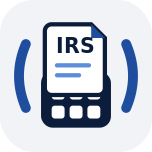
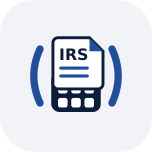
Ajusta o logotipo à arte de referência (Public/)
Refina a geometria do símbolo (dobra do documento maior e mais fiel,
proporções da calculadora e dos arcos ajustadas) com base no logotipo
fornecido, mantendo a mesma paleta azul já em uso. Ícones PWA
regenerados a partir da nova arte.

diff --git a/app/ui/components/symbol.js b/app/ui/components/symbol.js
@@ -3,31 +3,31 @@
 // ladeado por dois arcos que sugerem "antecipação" (o resultado já
 // calculado antes do círculo fiscal fechar). É o único elemento gráfico
 // de assinatura da marca: usar com moderação, sem duplicar como padrão
-// decorativo. Cores fixas da paleta (ver BRAND.md) — não variam consoante
-// o fundo, ao contrário da versão anterior do símbolo.
+// decorativo. Geometria e cores seguem o logotipo de referência (ver
+// BRAND.md) — cores fixas, não variam consoante o fundo.
 
 export function simboloSVG({ size = 32 } = {}) {
   return `
     <svg viewBox="0 0 100 100" width="${size}" height="${size}" role="img" aria-label="Antecipa">
-      <path d="M20,26 Q9,50 20,74" fill="none" stroke="#1F4E9E" stroke-width="6" stroke-linecap="round"/>
-      <path d="M80,26 Q91,50 80,74" fill="none" stroke="#1F4E9E" stroke-width="6" stroke-linecap="round"/>
+      <path d="M18,26 Q7,50 18,74" fill="none" stroke="#1F4E9E" stroke-width="6.5" stroke-linecap="round"/>
+      <path d="M82,26 Q93,50 82,74" fill="none" stroke="#1F4E9E" stroke-width="6.5" stroke-linecap="round"/>
 
-      <rect x="29" y="46" width="42" height="34" rx="7" fill="#0B1D3A"/>
+      <rect x="28" y="47" width="44" height="35" rx="7" fill="#0B1D3A"/>
       <g fill="#FFFFFF">
-        <rect x="35" y="56" width="8" height="8" rx="2"/>
-        <rect x="46" y="56" width="8" height="8" rx="2"/>
-        <rect x="57" y="56" width="8" height="8" rx="2"/>
-        <rect x="35" y="68" width="8" height="8" rx="2"/>
-        <rect x="46" y="68" width="8" height="8" rx="2"/>
-        <rect x="57" y="68" width="8" height="8" rx="2"/>
+        <rect x="34" y="57" width="8.5" height="8.5" rx="2"/>
+        <rect x="45.75" y="57" width="8.5" height="8.5" rx="2"/>
+        <rect x="57.5" y="57" width="8.5" height="8.5" rx="2"/>
+        <rect x="34" y="69.5" width="8.5" height="8.5" rx="2"/>
+        <rect x="45.75" y="69.5" width="8.5" height="8.5" rx="2"/>
+        <rect x="57.5" y="69.5" width="8.5" height="8.5" rx="2"/>
       </g>
 
-      <path d="M35,17 H60 L68,25 V56 A4,4 0 0 1 64,60 H35 A4,4 0 0 1 31,56 V21 A4,4 0 0 1 35,17 Z" fill="#FFFFFF" stroke="#0B1D3A" stroke-width="2.5"/>
-      <path d="M60,17 L68,25 H60 Z" fill="#1F4E9E"/>
+      <path d="M34,16 H62 L74,28 V57 A4.5,4.5 0 0 1 69.5,61.5 H34 A4.5,4.5 0 0 1 29.5,57 V20.5 A4.5,4.5 0 0 1 34,16 Z" fill="#FFFFFF" stroke="#0B1D3A" stroke-width="2.6"/>
+      <path d="M62,16 L74,28 H62 Z" fill="#1F4E9E"/>
 
-      <text x="49.5" y="35" font-family="Inter, Arial, sans-serif" font-weight="800" font-size="13" fill="#0B1D3A" text-anchor="middle">IRS</text>
-      <line x1="38" y1="42" x2="58" y2="42" stroke="#5B8DD9" stroke-width="2.6" stroke-linecap="round"/>
-      <line x1="38" y1="48" x2="52" y2="48" stroke="#5B8DD9" stroke-width="2.6" stroke-linecap="round"/>
+      <text x="48" y="35.5" font-family="Inter, Arial, sans-serif" font-weight="800" font-size="14" fill="#0B1D3A" text-anchor="middle">IRS</text>
+      <line x1="36.5" y1="43" x2="60" y2="43" stroke="#1F4E9E" stroke-width="2.8" stroke-linecap="round"/>
+      <line x1="36.5" y1="50" x2="60" y2="50" stroke="#1F4E9E" stroke-width="2.8" stroke-linecap="round"/>
     </svg>
   `;
 }

diff --git a/app/index.html b/app/index.html
@@ -19,22 +19,22 @@
              navy-deep, senão desaparece contra o fundo --navy-deep do
              cabeçalho (ver secção 4 do BRAND.md). -->
         <svg class="brand-mark" viewBox="0 0 100 100" role="img" aria-label="Antecipa">
-          <path d="M20,26 Q9,50 20,74" fill="none" stroke="#5B8DD9" stroke-width="6" stroke-linecap="round"/>
-          <path d="M80,26 Q91,50 80,74" fill="none" stroke="#5B8DD9" stroke-width="6" stroke-linecap="round"/>
-          <rect x="29" y="46" width="42" height="34" rx="7" fill="#1F4E9E"/>
+          <path d="M18,26 Q7,50 18,74" fill="none" stroke="#5B8DD9" stroke-width="6.5" stroke-linecap="round"/>
+          <path d="M82,26 Q93,50 82,74" fill="none" stroke="#5B8DD9" stroke-width="6.5" stroke-linecap="round"/>
+          <rect x="28" y="47" width="44" height="35" rx="7" fill="#1F4E9E"/>
           <g fill="#FFFFFF">
-            <rect x="35" y="56" width="8" height="8" rx="2"/>
-            <rect x="46" y="56" width="8" height="8" rx="2"/>
-            <rect x="57" y="56" width="8" height="8" rx="2"/>
-            <rect x="35" y="68" width="8" height="8" rx="2"/>
-            <rect x="46" y="68" width="8" height="8" rx="2"/>
-            <rect x="57" y="68" width="8" height="8" rx="2"/>
+            <rect x="34" y="57" width="8.5" height="8.5" rx="2"/>
+            <rect x="45.75" y="57" width="8.5" height="8.5" rx="2"/>
+            <rect x="57.5" y="57" width="8.5" height="8.5" rx="2"/>
+            <rect x="34" y="69.5" width="8.5" height="8.5" rx="2"/>
+            <rect x="45.75" y="69.5" width="8.5" height="8.5" rx="2"/>
+            <rect x="57.5" y="69.5" width="8.5" height="8.5" rx="2"/>
           </g>
-          <path d="M35,17 H60 L68,25 V56 A4,4 0 0 1 64,60 H35 A4,4 0 0 1 31,56 V21 A4,4 0 0 1 35,17 Z" fill="#FFFFFF" stroke="#0B1D3A" stroke-width="2.5"/>
-          <path d="M60,17 L68,25 H60 Z" fill="#5B8DD9"/>
-          <text x="49.5" y="35" font-family="Inter, Arial, sans-serif" font-weight="800" font-size="13" fill="#0B1D3A" text-anchor="middle">IRS</text>
-          <line x1="38" y1="42" x2="58" y2="42" stroke="#5B8DD9" stroke-width="2.6" stroke-linecap="round"/>
-          <line x1="38" y1="48" x2="52" y2="48" stroke="#5B8DD9" stroke-width="2.6" stroke-linecap="round"/>
+          <path d="M34,16 H62 L74,28 V57 A4.5,4.5 0 0 1 69.5,61.5 H34 A4.5,4.5 0 0 1 29.5,57 V20.5 A4.5,4.5 0 0 1 34,16 Z" fill="#FFFFFF" stroke="#0B1D3A" stroke-width="2.6"/>
+          <path d="M62,16 L74,28 H62 Z" fill="#5B8DD9"/>
+          <text x="48" y="35.5" font-family="Inter, Arial, sans-serif" font-weight="800" font-size="14" fill="#0B1D3A" text-anchor="middle">IRS</text>
+          <line x1="36.5" y1="43" x2="60" y2="43" stroke="#5B8DD9" stroke-width="2.8" stroke-linecap="round"/>
+          <line x1="36.5" y1="50" x2="60" y2="50" stroke="#5B8DD9" stroke-width="2.8" stroke-linecap="round"/>
         </svg>
         <span class="brand-wordmark">antecipa</span>
       </div>

diff --git a/index.html b/index.html
@@ -22,22 +22,22 @@
     <div class="wrap site-header__row">
       <a href="./" class="lockup" aria-label="Antecipa">
         <svg width="28" height="28" viewBox="0 0 100 100" role="img" aria-hidden="true">
-          <path d="M20,26 Q9,50 20,74" fill="none" stroke="#1F4E9E" stroke-width="6" stroke-linecap="round"/>
-          <path d="M80,26 Q91,50 80,74" fill="none" stroke="#1F4E9E" stroke-width="6" stroke-linecap="round"/>
-          <rect x="29" y="46" width="42" height="34" rx="7" fill="#0B1D3A"/>
+          <path d="M18,26 Q7,50 18,74" fill="none" stroke="#1F4E9E" stroke-width="6.5" stroke-linecap="round"/>
+          <path d="M82,26 Q93,50 82,74" fill="none" stroke="#1F4E9E" stroke-width="6.5" stroke-linecap="round"/>
+          <rect x="28" y="47" width="44" height="35" rx="7" fill="#0B1D3A"/>
           <g fill="#FFFFFF">
-            <rect x="35" y="56" width="8" height="8" rx="2"/>
-            <rect x="46" y="56" width="8" height="8" rx="2"/>
-            <rect x="57" y="56" width="8" height="8" rx="2"/>
-            <rect x="35" y="68" width="8" height="8" rx="2"/>
-            <rect x="46" y="68" width="8" height="8" rx="2"/>
-            <rect x="57" y="68" width="8" height="8" rx="2"/>
+            <rect x="34" y="57" width="8.5" height="8.5" rx="2"/>
+            <rect x="45.75" y="57" width="8.5" height="8.5" rx="2"/>
+            <rect x="57.5" y="57" width="8.5" height="8.5" rx="2"/>
+            <rect x="34" y="69.5" width="8.5" height="8.5" rx="2"/>
+            <rect x="45.75" y="69.5" width="8.5" height="8.5" rx="2"/>
+            <rect x="57.5" y="69.5" width="8.5" height="8.5" rx="2"/>
           </g>
-          <path d="M35,17 H60 L68,25 V56 A4,4 0 0 1 64,60 H35 A4,4 0 0 1 31,56 V21 A4,4 0 0 1 35,17 Z" fill="#FFFFFF" stroke="#0B1D3A" stroke-width="2.5"/>
-          <path d="M60,17 L68,25 H60 Z" fill="#1F4E9E"/>
-          <text x="49.5" y="35" font-family="Inter, Arial, sans-serif" font-weight="800" font-size="13" fill="#0B1D3A" text-anchor="middle">IRS</text>
-          <line x1="38" y1="42" x2="58" y2="42" stroke="#5B8DD9" stroke-width="2.6" stroke-linecap="round"/>
-          <line x1="38" y1="48" x2="52" y2="48" stroke="#5B8DD9" stroke-width="2.6" stroke-linecap="round"/>
+          <path d="M34,16 H62 L74,28 V57 A4.5,4.5 0 0 1 69.5,61.5 H34 A4.5,4.5 0 0 1 29.5,57 V20.5 A4.5,4.5 0 0 1 34,16 Z" fill="#FFFFFF" stroke="#0B1D3A" stroke-width="2.6"/>
+          <path d="M62,16 L74,28 H62 Z" fill="#1F4E9E"/>
+          <text x="48" y="35.5" font-family="Inter, Arial, sans-serif" font-weight="800" font-size="14" fill="#0B1D3A" text-anchor="middle">IRS</text>
+          <line x1="36.5" y1="43" x2="60" y2="43" stroke="#1F4E9E" stroke-width="2.8" stroke-linecap="round"/>
+          <line x1="36.5" y1="50" x2="60" y2="50" stroke="#1F4E9E" stroke-width="2.8" stroke-linecap="round"/>
         </svg>
         <span class="lockup__word">antecipa</span>
       </a>
